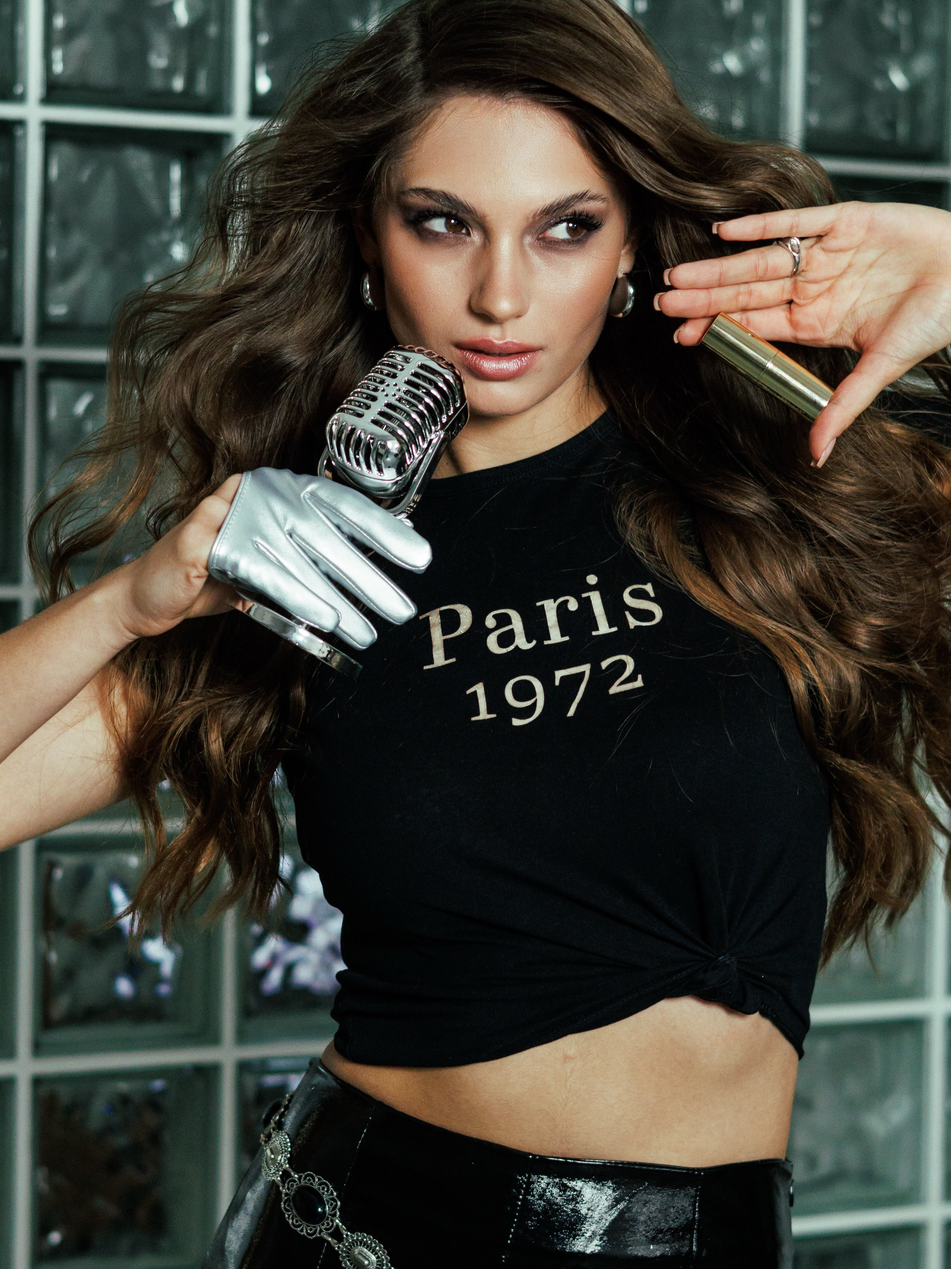
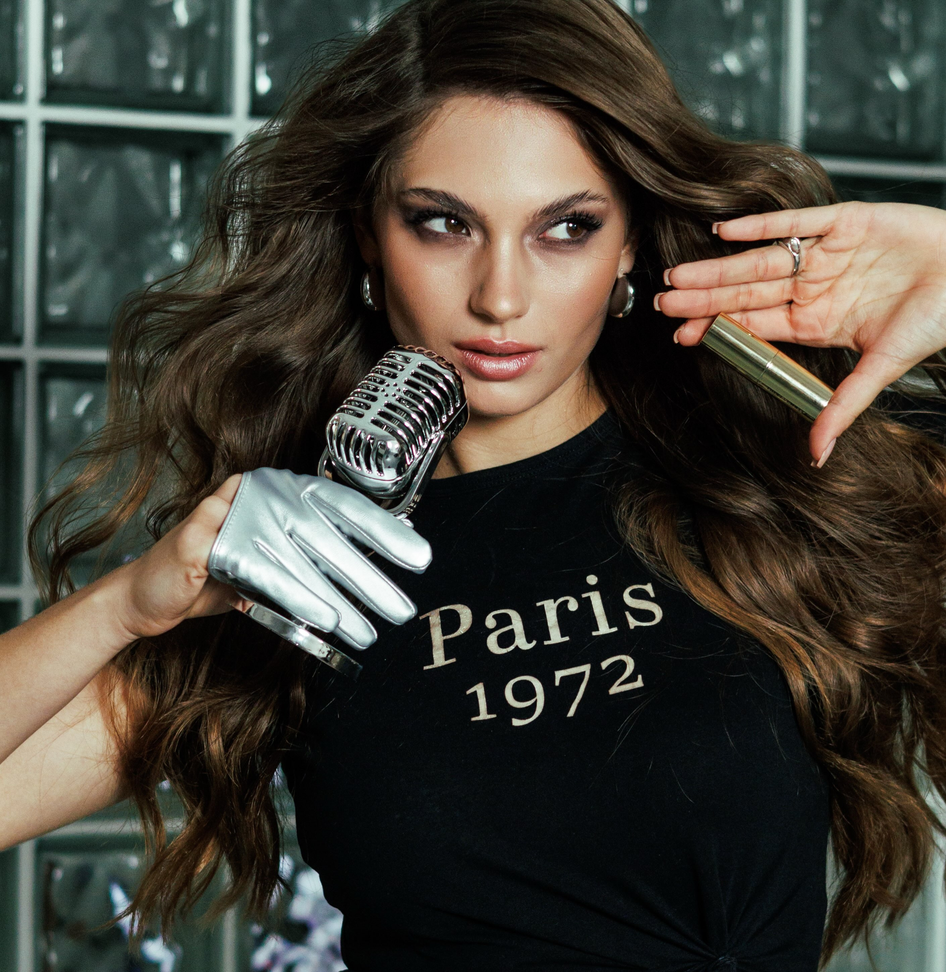
Add files via upload

diff --git a/index.html b/index.html
@@ -132,7 +132,7 @@
 </head>
 <body>
     <div class="bg-photos">
-        <img class="bg-photo" src="First.png" alt="фон">
+        <img class="bg-photo" src="First.jpg" alt="фон">
         <img class="bg-photo" src="Second.jpg" alt="фон">
         <img class="bg-photo" src="phon.jpg" alt="фон">
     </div>
@@ -144,7 +144,7 @@
         <div class="secret-content" id="content">
             <div class="carousel" id="mainCarousel">
                 <div class="carousel-item">
-                    <img src="First.png" alt="Фото 1">
+                    <img src="First.jpg" alt="Фото 1">
                     <div class="caption">Бажаю тобі успіхів у всіх твоїх починаннях 🔥</div>
                 </div>
                 <div class="carousel-item">
